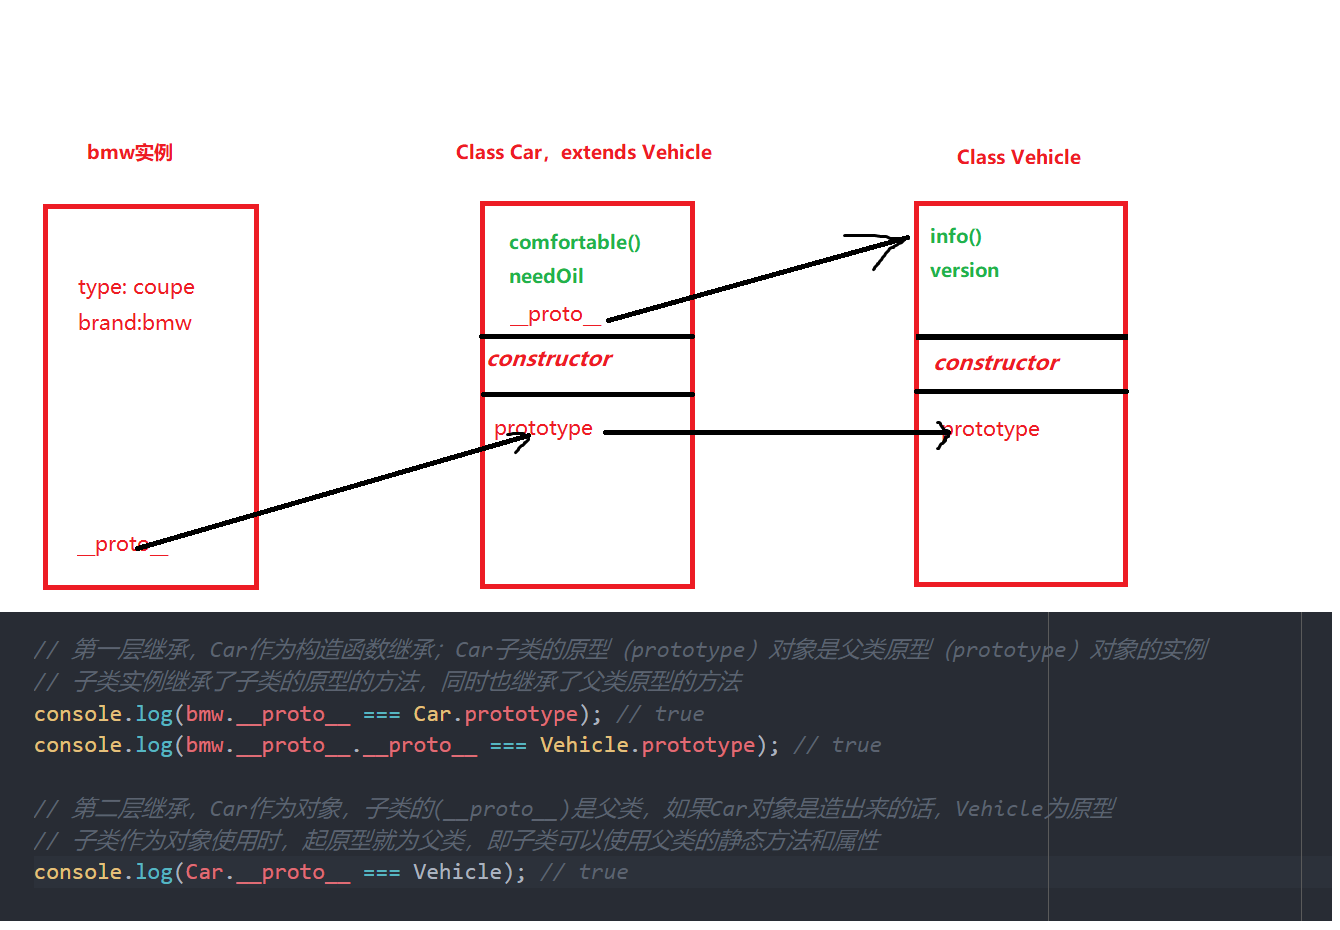
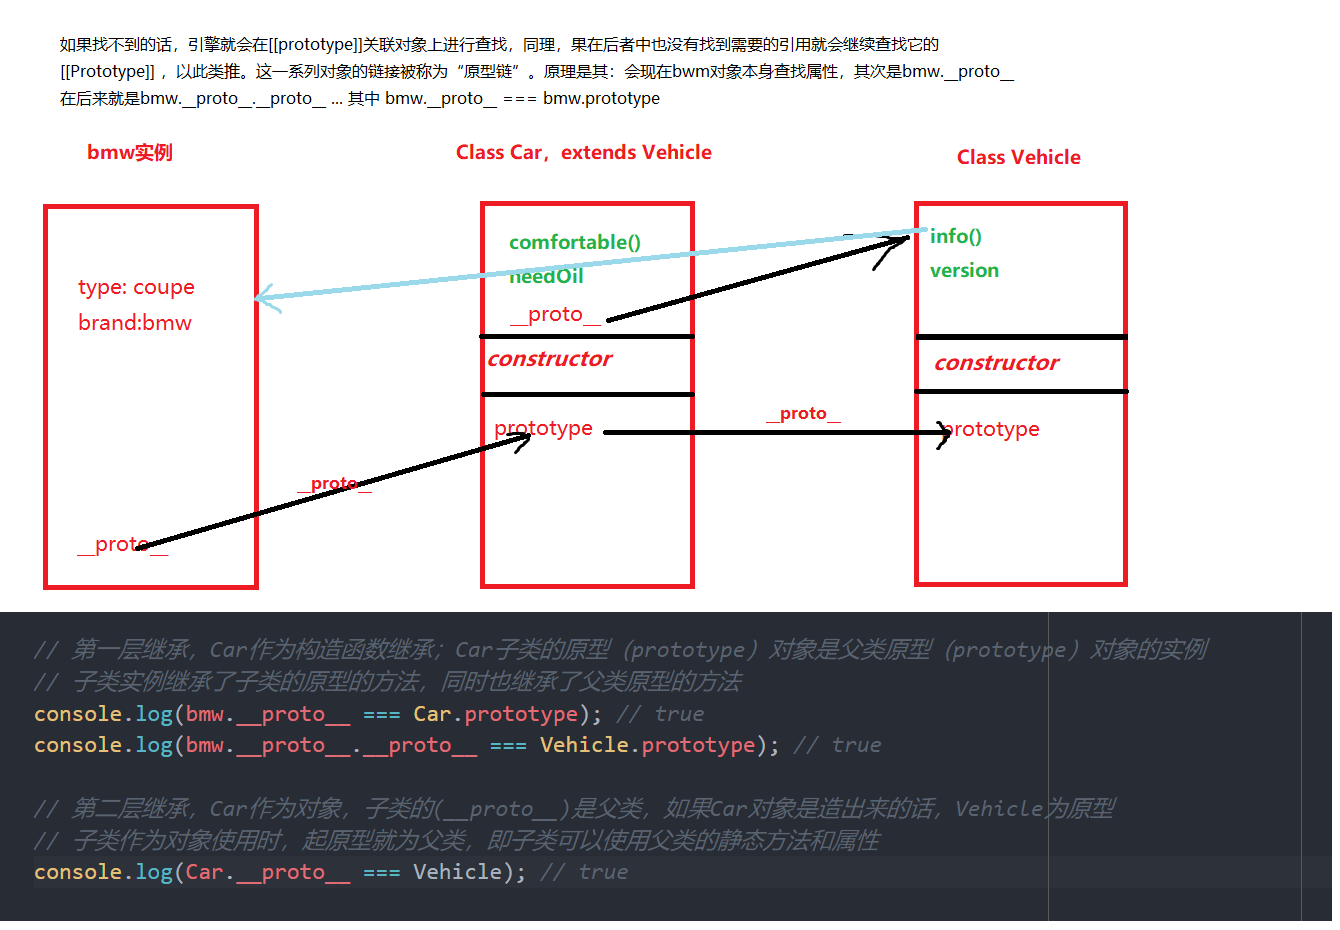
添加了委托模式

diff --git a/前端/js书籍.md b/前端/js书籍.md
@@ -135,4 +135,22 @@ ES6的继承是子类实例的构建，是基于父类实例加工；
 
 ![classExtend](./imgs/es6-extends.png)
 
-###
+
+javascript 中对于“构造函数”最准确的解释是，所有带`new`的函数调用；函数不是构造函数，但是当且仅当使用 new 时，函数调用会变成“构造函数调用”。**prototype**可以认为是个委托；
+javascript中的对象通过委托的方式访问对象本身并没有，而在其原型上的属性和方法；
+原型继承之所以能够存在取决于：
+* 1、javascript为动态类型的语言
+* 2、在访问对象的属性时存在原型链查找，当在属性内部不能找到对应的属性时，会去起对应的原型链上查找，直到最顶层的原型；最后返回值为存在的值或为`undefined`
+	
+
+如果要访问对象中并不存在的一个属性， [[Get]] 操作（参见第 3 章）就会查找对象内部
+[[Prototype]] 关联的对象。这个关联关系实际上定义了一条“原型链”（有点像嵌套的作用域链），在查找属性时会对它进行遍历。
+所有普通对象都有内置的 Object.prototype ，指向原型链的顶端（比如说全局作用域），如果在原型链中找不到指定的属性就会停止。 toString() 、 valueOf() 和其他一些通用的功能都存在于 Object.prototype 对象上，因此语言中所有的对象都可以使用它们。
+关联两个对象最常用的方法是使用 new 关键词进行函数调用，在调用的 4 个步骤（第 2章）中会创建一个关联其他对象的新对象。
+使用 new 调用函数时会把新对象的 .prototype 属性关联到“其他对象”。带 new 的函数调用通常被称为“构造函数调用”，尽管它们实际上和传统面向类语言中的类构造函数不一样。
+虽然这些 JavaScript 机制和传统面向类语言中的“类初始化”和“类继承”很相似，但是 JavaScript 中的机制有一个核心区别，那就是不会进行复制，对象之间是通过内部的[[Prototype]] 链关联的。
+
+出于各种原因，以“继承”结尾的术语（包括“原型继承”）和其他面向对象的术语都无法帮助你理解 JavaScript 的真实机制（不仅仅是限制我们的思维模式）。
+相比之下，“委托”是一个更合适的术语，因为对象之间的关系不是复制而是委托
+
+
